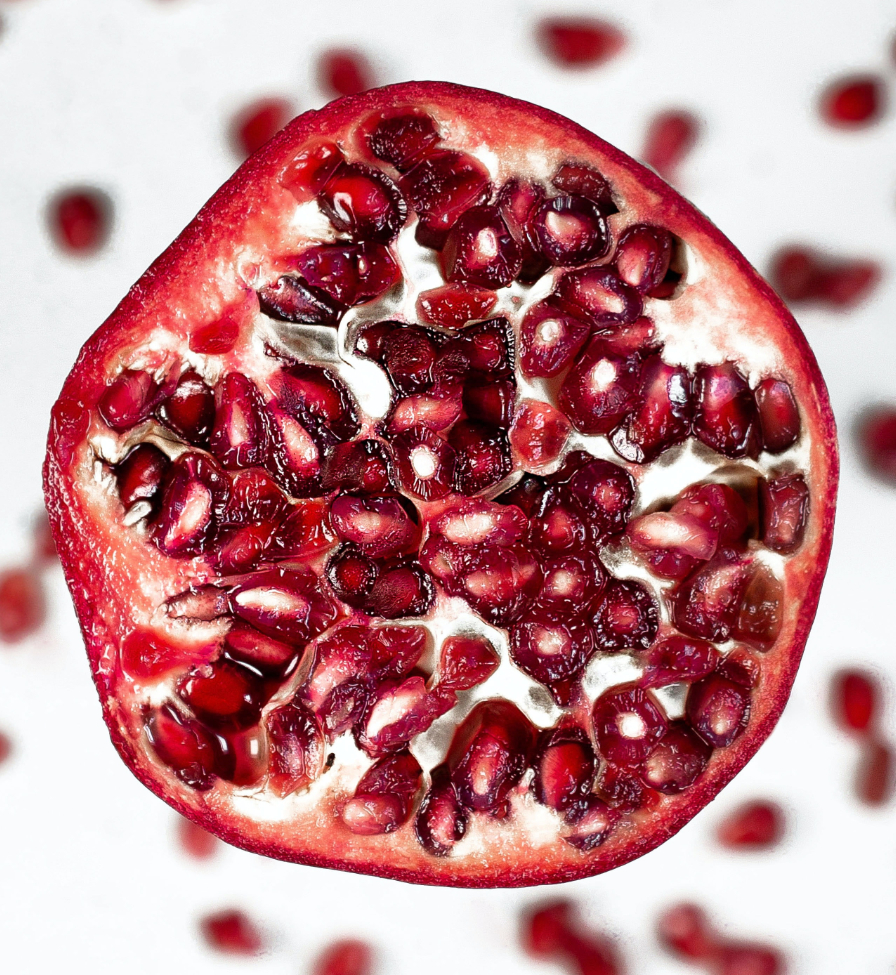
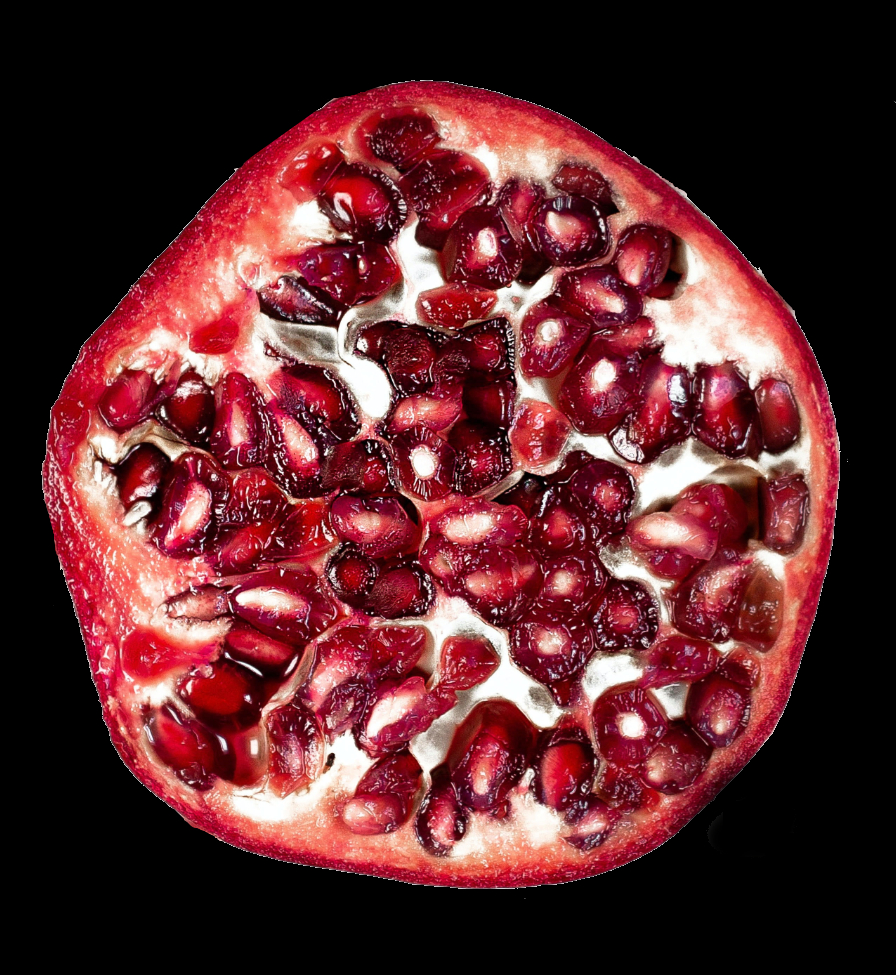
new data added, setup.py added

diff --git a/sparse_ct/test_dip.py b/sparse_ct/test_dip.py
@@ -11,10 +11,11 @@ from pytorch_radon import Radon, IRadon
 
 from data import (noisy_zebra, noisy_shepp_logan, 
                   sparse_shepp_logan, sparse_breast_phantom, sparse_image)
+
+from loss.tv import tv_3d_l2
 from tool import im2tensor, plot_result, np_to_torch, torch_to_np
 from model.unet import UNet
 from model.skip import Skip
-import multiprocessing
 
 
 DEVICE = 'cuda'
@@ -22,17 +23,17 @@ DTYPE = torch.cuda.FloatTensor
 PAD = 'reflection'
 EPOCH = 8000
 LR = 0.001
-REG_NOISE_STD = 1./50
+REG_NOISE_STD = 1./30
 INPUT_DEPTH = 32
 IMAGE_DEPTH = 3
 IMAGE_SIZE = 512
 N_PROJ = 64
 
-div = EPOCH / 100
+div = 50 #EPOCH / 50
 
 if __name__ == "__main__":
 
-    fname = "data/circular1.jpg"
+    fname = "data/pomegranate.jpg"
     save_name = fname.replace("/", "").replace("data", "log/").replace(".jpg","")
     os.mkdir(save_name)
     # Init Input 
@@ -59,7 +60,7 @@ if __name__ == "__main__":
 
     noisy_tensor = np_to_torch(noisy).type(DTYPE)
     img_gt_torch = np_to_torch(gt).type(DTYPE)
-    net_input = torch.rand(IMAGE_DEPTH, INPUT_DEPTH, IMAGE_SIZE, IMAGE_SIZE).type(DTYPE)
+    net_input = torch.rand(1, INPUT_DEPTH, IMAGE_SIZE, IMAGE_SIZE).type(DTYPE)
     net_input_saved = net_input.detach().clone()
     noise = net_input.detach().clone()
 
@@ -69,7 +70,7 @@ if __name__ == "__main__":
 
     # Loss
     mse = torch.nn.MSELoss().to(DEVICE)
-    #ssim = MS_SSIM(data_range=1.0, size_average=True, channel=IMAGE_DEPTH).to(DEVICE)
+    ssim = MS_SSIM(data_range=1.0, size_average=True, channel=IMAGE_DEPTH).to(DEVICE)
     theta = torch.linspace(0., 180., N_PROJ)
     r = Radon(IMAGE_SIZE, theta, True)
     ir = IRadon(IMAGE_SIZE, theta, True)
@@ -99,44 +100,46 @@ if __name__ == "__main__":
             net_input = net_input_saved + (noise.normal_() * REG_NOISE_STD)
 
         x_iter = net(net_input)
+        ssim_l = (1 - ssim(x_iter, noisy_tensor.detach() ))
         proj_l = mse(norm(r(x_iter)[0]), norm(projs[0]))
-        loss = proj_l
+        tv_l = tv_3d_l2(x_iter[0])
+        loss = proj_l #+ tv_l
         loss.backward()
         
         optimizer.step()
 
 
+
         # metric
-        x_iter_npy = np.clip(torch_to_np(x_iter), 0, 1)
-
-        rmse_hist.append(
-            mean_squared_error(x_iter_npy, gt))
-        ssim_hist.append(
-            structural_similarity(x_iter_npy, gt, multichannel=True)
-        )
-        psnr_hist.append(
-            peak_signal_noise_ratio(x_iter_npy, gt)
-        )
-        psnr_noisy_hist.append(
-            peak_signal_noise_ratio(x_iter_npy, noisy)
-        )
-        loss_hist.append(loss.item())
-        print('{}- psnr: {:.3f} - psnr_noisy: {:.3f} - ssim: {:.3f} - rmse: {:.5f} - loss: {:.5f} '.format(
-            i, psnr_hist[-1], psnr_noisy_hist[-1], ssim_hist[-1], rmse_hist[-1], loss_hist[-1]
-        ))
-
-        if psnr_noisy_hist[-1] / max(psnr_noisy_hist) < 0.92:
-            print('Falling back to previous checkpoint.')
-            # load network
-            for new_param, net_param in zip(best_network, net.parameters()):
-                net_param.data.copy_(new_param.cuda())
-
-        if i > 2:
-            if loss_hist[-1] < min(loss_hist[0:-1]):
-                # save network
-                best_network = [x.detach().cpu() for x in net.parameters()]        
-
         if i % div == 0:
+            x_iter_npy = np.clip(torch_to_np(x_iter), 0, 1)
+
+            rmse_hist.append(
+                mean_squared_error(x_iter_npy, gt))
+            ssim_hist.append(
+                structural_similarity(x_iter_npy, gt, multichannel=True)
+            )
+            psnr_hist.append(
+                peak_signal_noise_ratio(x_iter_npy, gt)
+            )
+            psnr_noisy_hist.append(
+                peak_signal_noise_ratio(x_iter_npy, noisy)
+            )
+            loss_hist.append(loss.item())
+            print('{}- psnr: {:.3f} - psnr_noisy: {:.3f} - ssim: {:.3f} - rmse: {:.5f} - loss: {:.5f} '.format(
+                i, psnr_hist[-1], psnr_noisy_hist[-1], ssim_hist[-1], rmse_hist[-1], loss_hist[-1]
+            ))
+
+            if psnr_noisy_hist[-1] / max(psnr_noisy_hist) < 0.92:
+                print('Falling back to previous checkpoint.')
+                # load network
+                for new_param, net_param in zip(best_network, net.parameters()):
+                    net_param.data.copy_(new_param.cuda())
+
+            if i > 2:
+                if loss_hist[-1] < min(loss_hist[0:-1]):
+                    # save network
+                    best_network = [x.detach().cpu() for x in net.parameters()]        
             plot_result(gt, noisy, x_iter_npy, FOCUS, save_name= save_name+'/{}.png'.format(i))
     # Result
     plt.figure()

diff --git a/sparse_ct/data/__init__.py b/sparse_ct/data/__init__.py
@@ -15,20 +15,19 @@ def pad_to_square(img):
     if delta_h != 0:
         h, w = img.shape
         img = np.vstack([
-            np.zeros((delta_h//2,w)),
+            np.zeros((delta_h//2, w)),
             img,
-            np.zeros((delta_h//2,w))
+            np.zeros((delta_h//2, w))
         ])
     if delta_w != 0:
         h, w = img.shape
         img = np.hstack([
-            np.zeros((h,delta_w//2)),
+            np.zeros((h, delta_w//2)),
             img,
-            np.zeros((h,delta_w//2))
+            np.zeros((h, delta_w//2))
         ])
     return img
-            
-    
+
 
 def noisy_zebra(
     noise_level=0.35,
@@ -58,7 +57,6 @@ def noisy_shepp_logan(
     return gt, noisy, FOCUS
 
 
-
 def sparse_shepp_logan(
     noise_level=0.35,
     gray=True,
@@ -76,12 +74,12 @@ def sparse_shepp_logan(
     def FOCUS(x):
         return x[350:450, 200:300]
 
-
     if channel == 3:
         noisy = gray2rgb(noisy)
         gt = gray2rgb(gt)
 
     return gt, noisy, FOCUS
+
 
 def sparse_breast_phantom(
     noise_level=0.35,
@@ -92,12 +90,13 @@ def sparse_breast_phantom(
     channel=1,
 ):
     gt = loadmat('data/bp-160u-dense.mat')['data'][300]
-    gt = resize(gt, (316,316)).astype('float')
+    gt = resize(gt, (316, 316)).astype('float')
     theta = np.linspace(angle1, angle2, n_proj, endpoint=False)
     sinogram = radon(gt, theta=theta, circle=True)
     noisy = iradon(sinogram, theta=theta)
-    noisy = resize(noisy, (316,316)).astype('float')
+    noisy = resize(noisy, (316, 316)).astype('float')
     print(noisy.shape, gt.shape)
+
     def FOCUS(x):
         return x[175:275, 75:175]
 
@@ -113,9 +112,9 @@ def sparse_image(
     angle2=180.0,
     channel=1,
     size=512
-    ):
+):
     raw_img = io.imread(image_path, as_gray=gray).astype('float')
-    gt = resize(pad_to_square(raw_img), (size,size))
+    gt = resize(pad_to_square(raw_img), (size, size))
     theta = np.linspace(angle1, angle2, n_proj, endpoint=False)
     sinogram = radon(gt, theta=theta, circle=True)
     noisy = iradon(sinogram, theta=theta)
@@ -123,15 +122,42 @@ def sparse_image(
     def FOCUS(x):
         return x[250:350, 250:350]
 
-
     if channel == 3:
         noisy = gray2rgb(noisy)
         gt = gray2rgb(gt)
 
     return gt, noisy, FOCUS
 
+def image_to_sparse_sinogram(
+    image_path,
+    noise_level=0.25,
+    gray=True,
+    n_proj=128,
+    angle1=0.0,
+    angle2=180.0,
+    channel=1,
+    size=512
+):
+    raw_img = io.imread(image_path, as_gray=gray).astype('float64')
+    raw_img = raw_img / raw_img.max() # map [0,1]
+    gt = resize(pad_to_square(raw_img), (size, size))
+    theta = np.linspace(angle1, angle2, n_proj, endpoint=False)
+    sinogram = radon(gt, theta=theta, circle=True)
+
+    print('gt ', gt.shape, gt.max(), gt.min(), gt.dtype )
+    print('sinogram ', sinogram.shape, sinogram.max(), sinogram.min(), sinogram.dtype)
+
+    def FOCUS(x):
+        return x[250:350, 250:350]
+
+    if channel == 3:
+        gt = gray2rgb(gt)
+
+    return gt, sinogram, theta, FOCUS
+
+
 if __name__ == "__main__":
-    gt,n,_ = sparse_image("data/pomegranate.jpg")
+    gt, n, _ = sparse_image("data/pomegranate.jpg")
     #gt,n,_ = sparse_shepp_logan("data/zebra.jpg")
     import matplotlib.pyplot as plt
 
@@ -139,6 +165,3 @@ if __name__ == "__main__":
     plt.show()
     plt.imshow(n, cmap='gray')
     plt.show()
-
-
-

diff --git a/setup.py b/setup.py
@@ -1,0 +1,22 @@
+import setuptools
+
+with open("README.md", "r") as fh:
+    long_description = fh.read()
+
+setuptools.setup(
+    name="sparse-ct-mozanunal", # Replace with your own username
+    version="0.0.1",
+    author="Mehmet Ozan Unal",
+    author_email="mehmetozan.unal@gmail.com",
+    description="Sparse CT Reconstruction",
+    long_description=long_description,
+    long_description_content_type="text/markdown",
+    url="",
+    packages=setuptools.find_packages(),
+    classifiers=[
+        "Programming Language :: Python :: 3",
+        "License :: OSI Approved :: MIT License",
+        "Operating System :: OS Independent",
+    ],
+    python_requires='>=3.6',
+)

diff --git a/README.md b/README.md
@@ -1,1 +1,8 @@
 # SparseCT
+
+## Demo
+
+## Development
+
+## Licence
+
